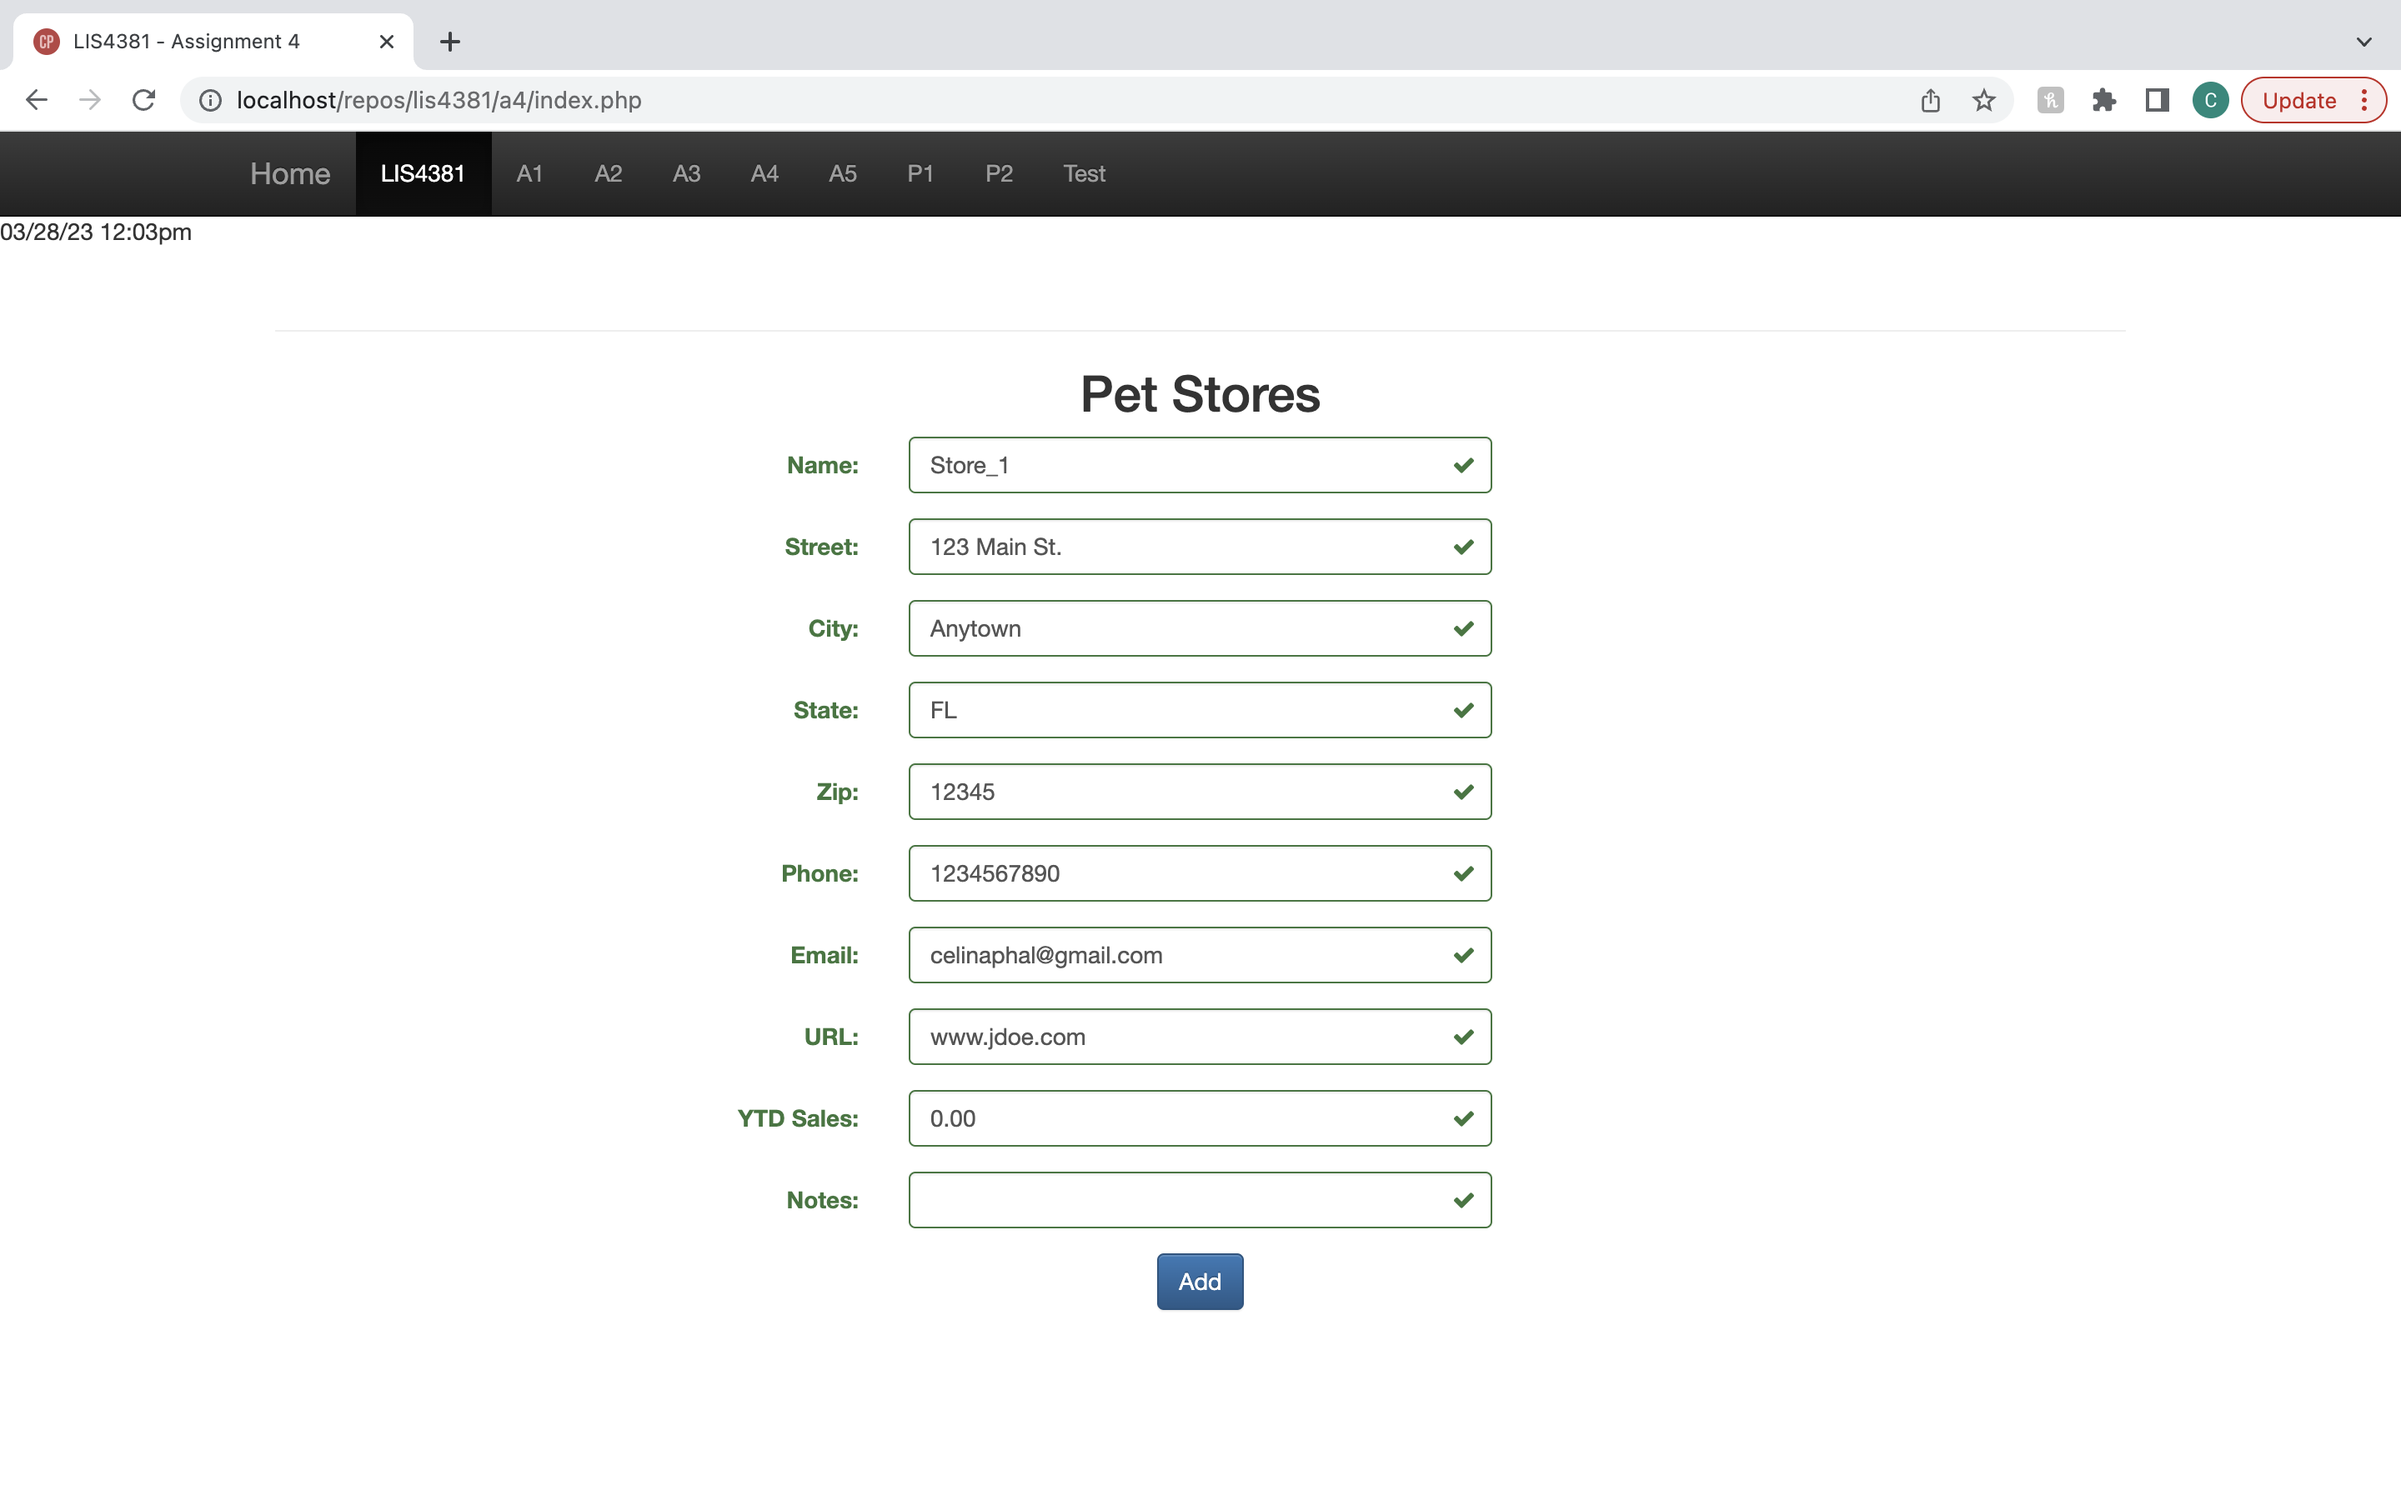
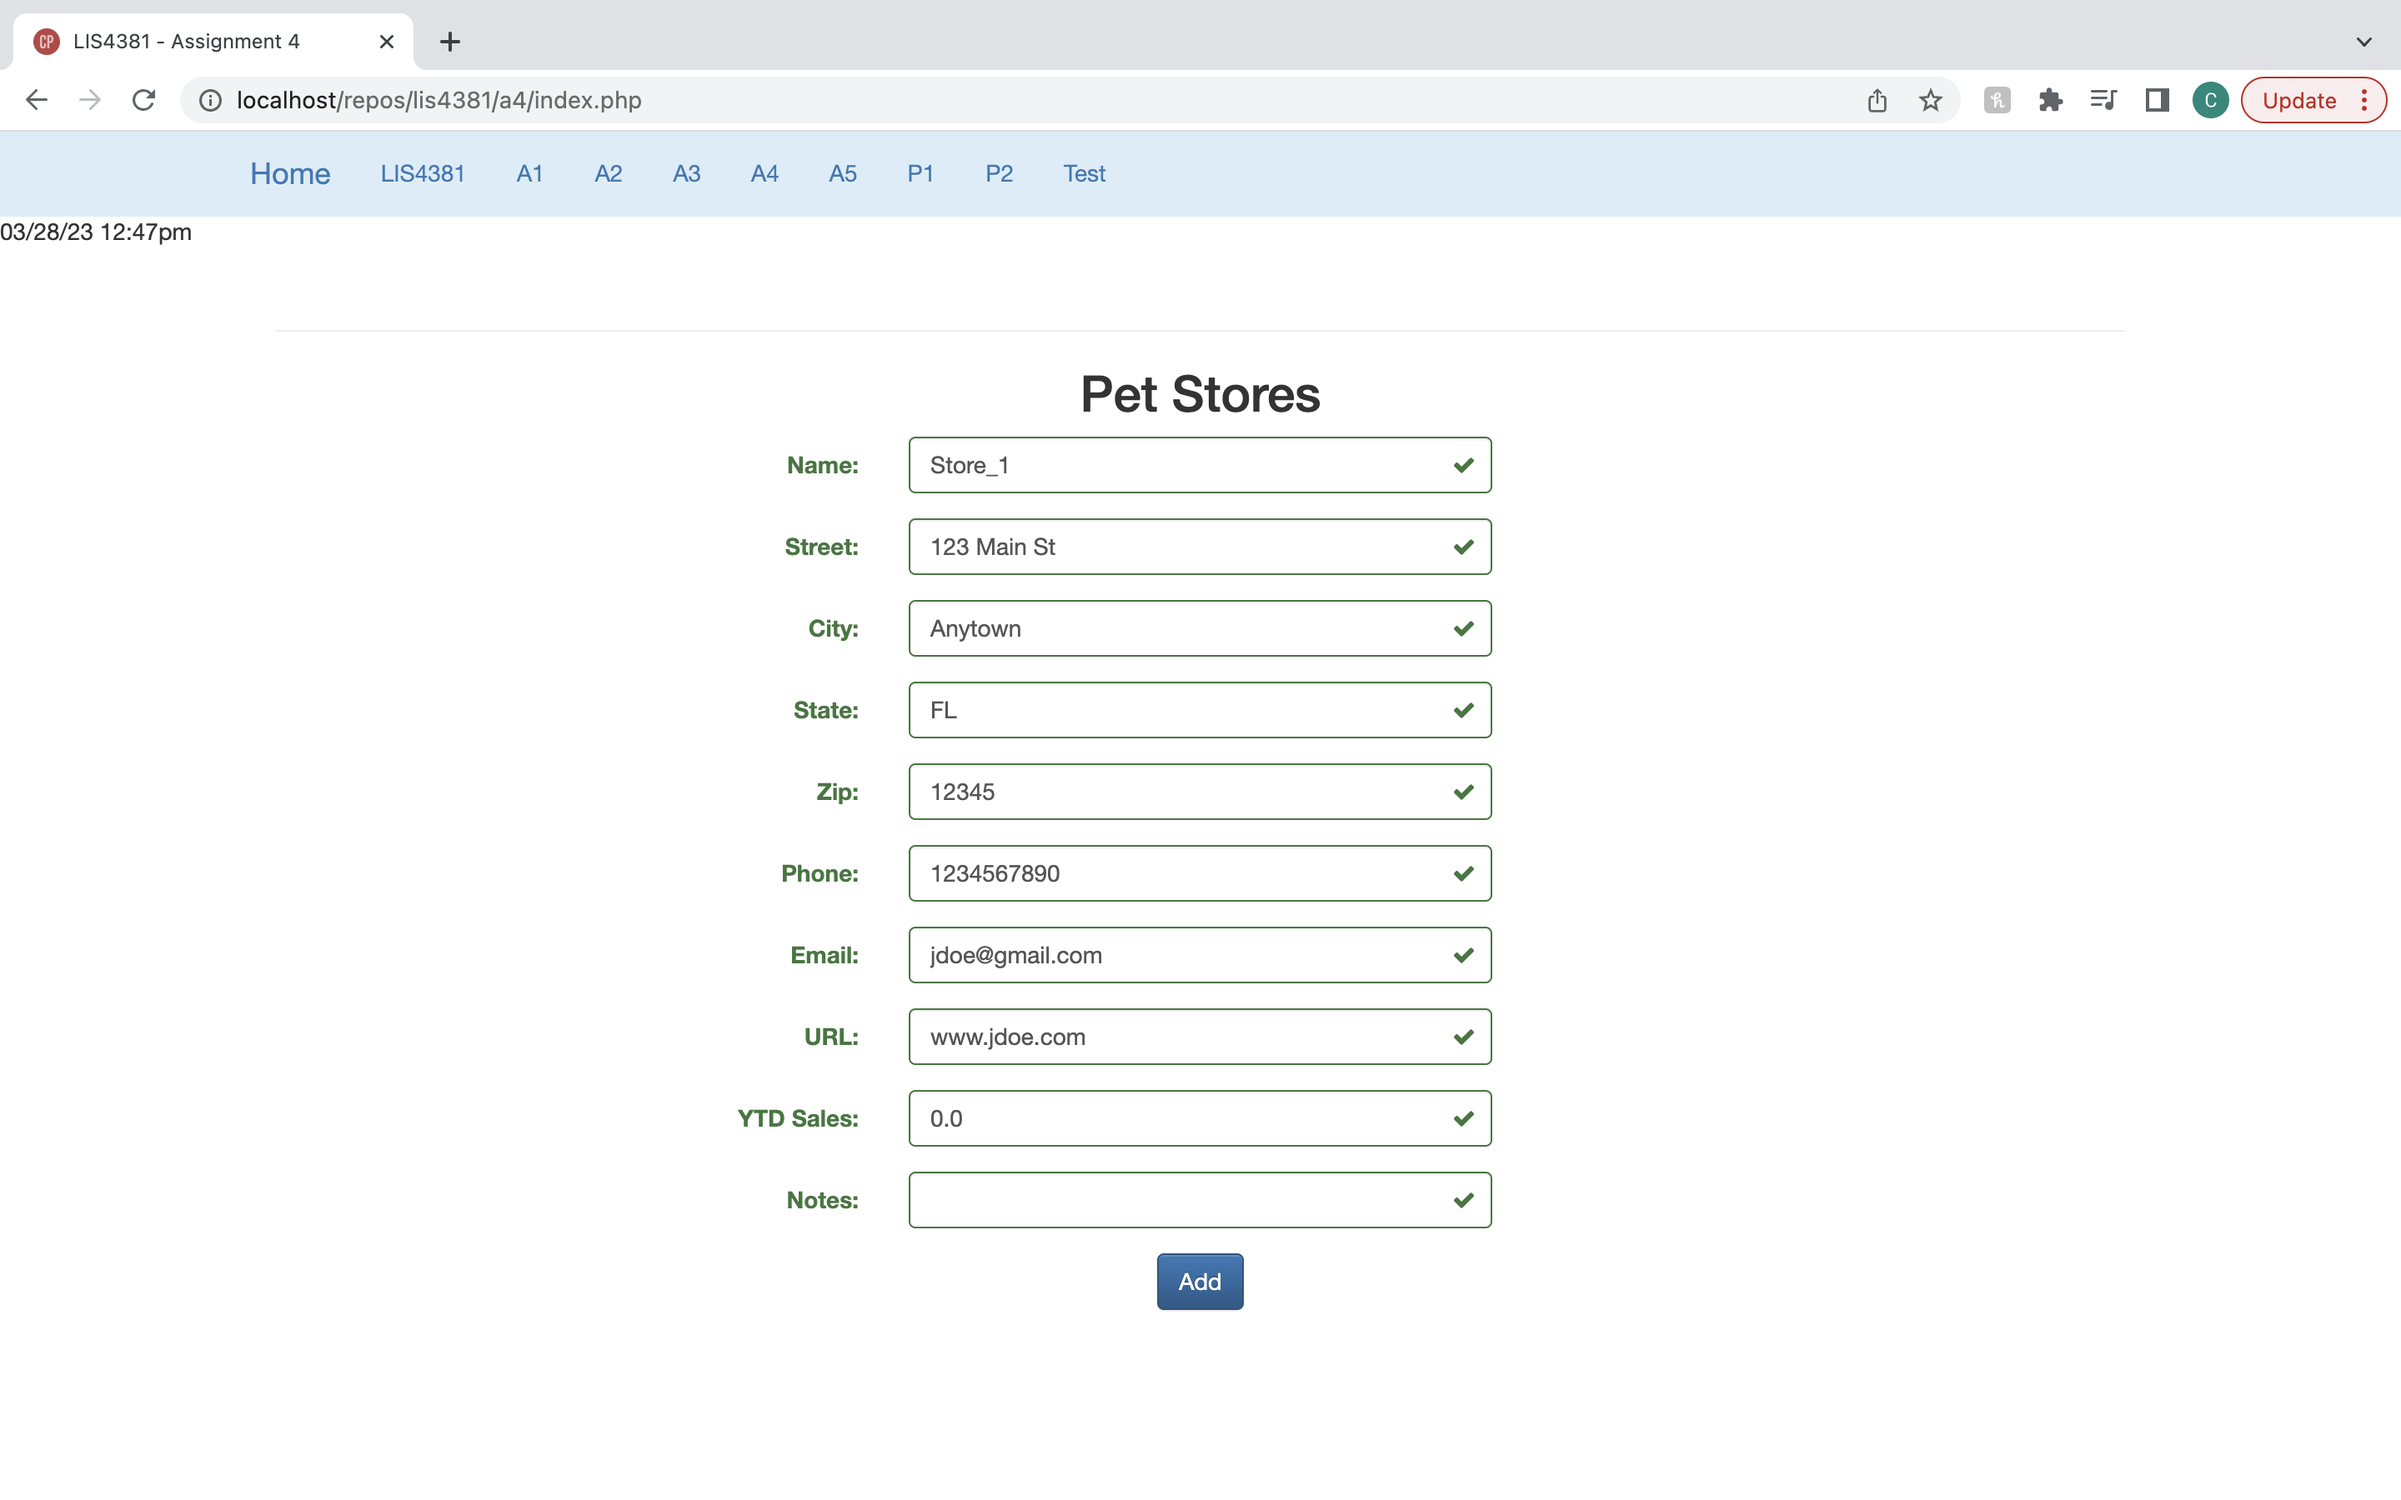
a4

Changed region(s): [[0.0, 0.0622, 1.0, 0.1556], [0.375, 0.6222, 0.4688, 0.6533]]

diff --git a/global/nav_global.php b/global/nav_global.php
@@ -1,4 +1,4 @@
-	<nav class="navbar navbar-inverse navbar-fixed-top">
+	<nav class="navbar navbar-fixed-top navbar-expand-sm bg-info navbar-light">
 		<div class="container">			
 			<div class="navbar-header">
 				<button type="button" class="navbar-toggle collapsed" data-toggle="collapse" data-target="#navbar" aria-expanded="false" aria-controls="navbar">

diff --git a/global/nav.php b/global/nav.php
@@ -1,4 +1,4 @@
-	<nav class="navbar navbar-inverse navbar-fixed-top">
+<nav class="navbar navbar-fixed-top navbar-expand-sm bg-info navbar-dark">
 		<div class="container">			
 			<div class="navbar-header">
 				<button type="button" class="navbar-toggle collapsed" data-toggle="collapse" data-target="#navbar" aria-expanded="false" aria-controls="navbar">
